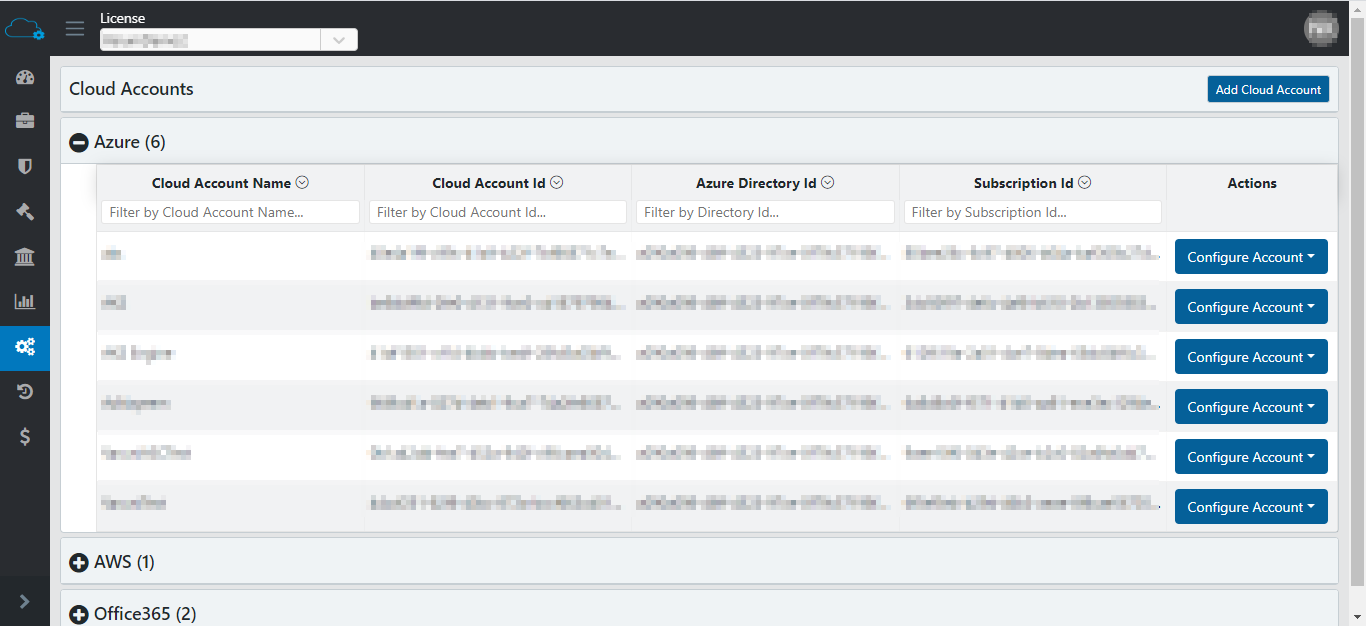
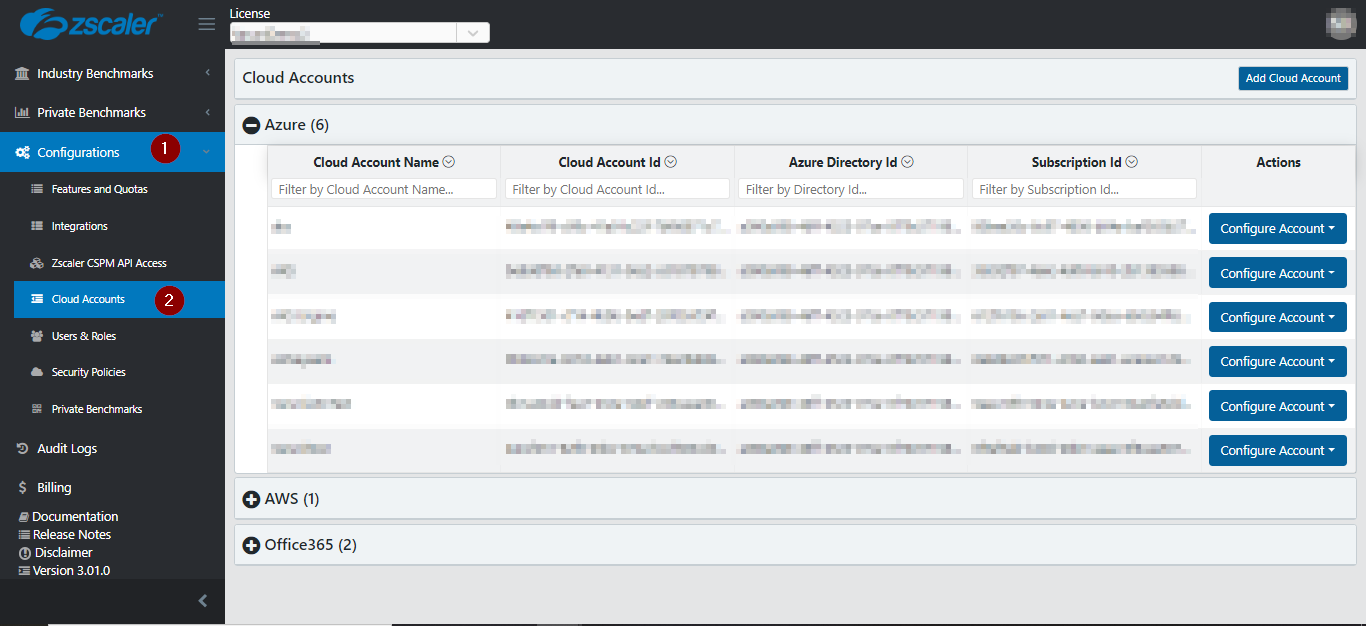
Updated K8s pages as per feedback

diff --git a/docs/onboardingGuide/configureCloudneetiAgentInEKS.md b/docs/onboardingGuide/configureCloudneetiAgentInEKS.md
@@ -24,7 +24,7 @@ Login to Cloudneeti portal with **License Admin** role
 
 1.  Navigate to **Configurations** and **Cloud Accounts**
 
-    ![Associate Kubernetes](.././images/kubernetes/CN_ManageAccounts_AWS.png#thumbnail)
+    ![Associate Kubernetes](.././images/kubernetes/CN_ManageAccounts_1.png#thumbnail)
 
 2.  Expand **AWS** (1) section
 
